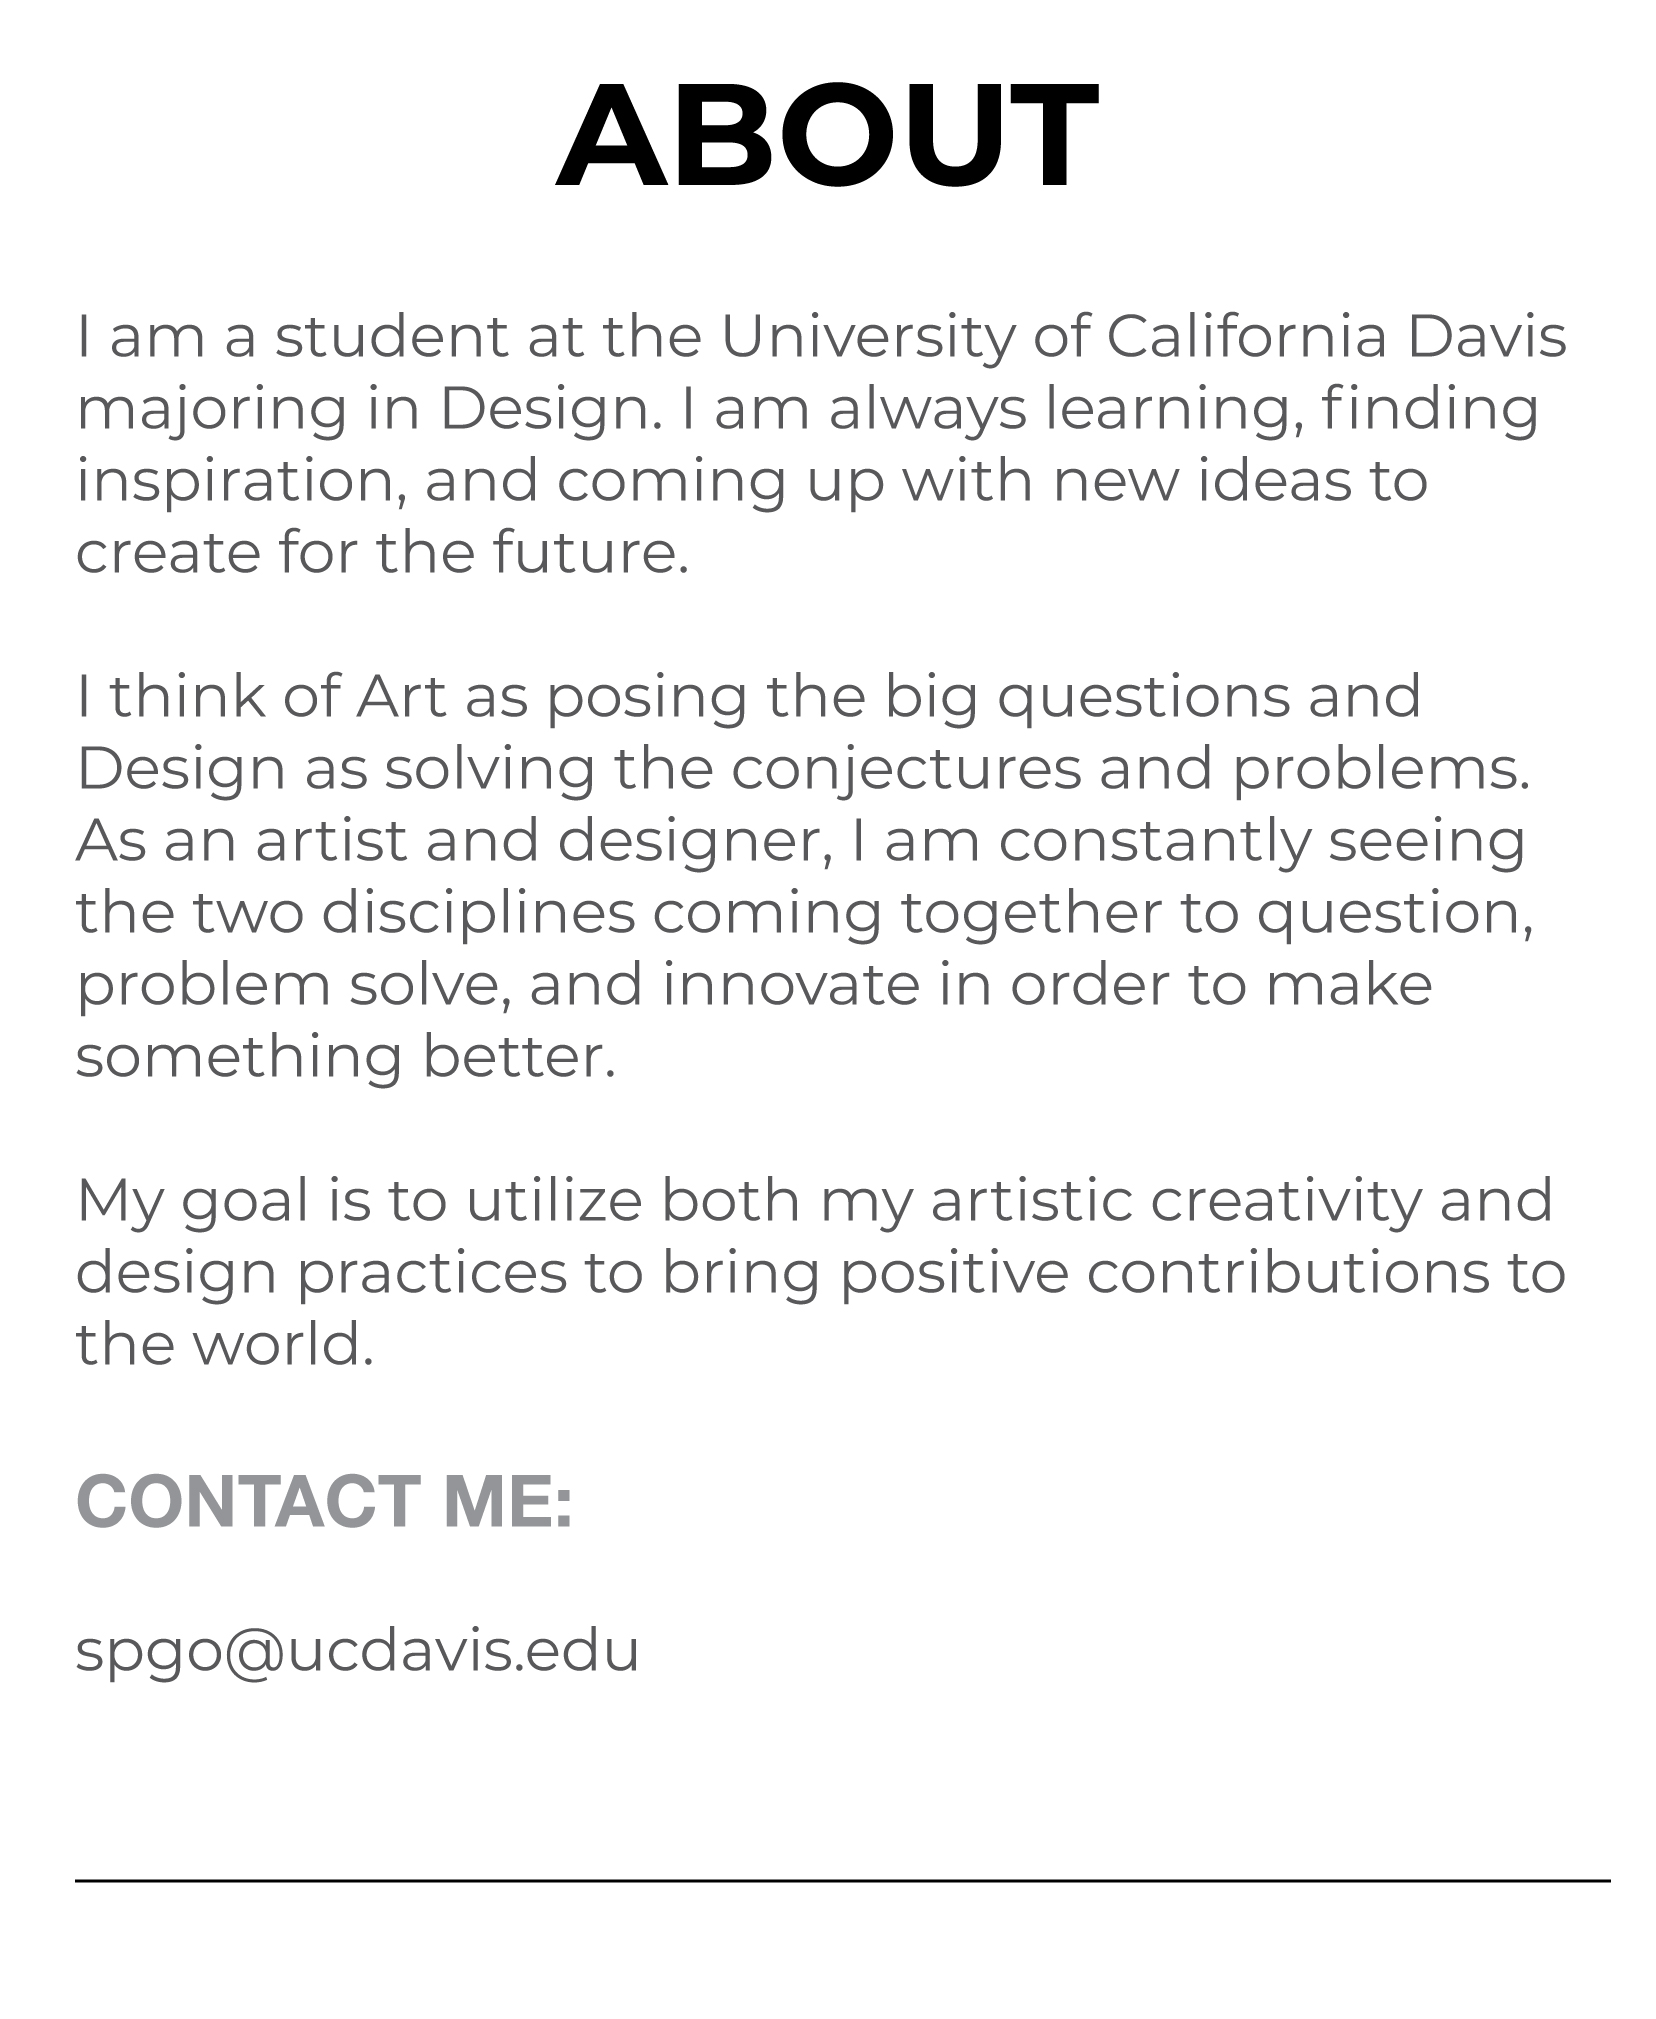
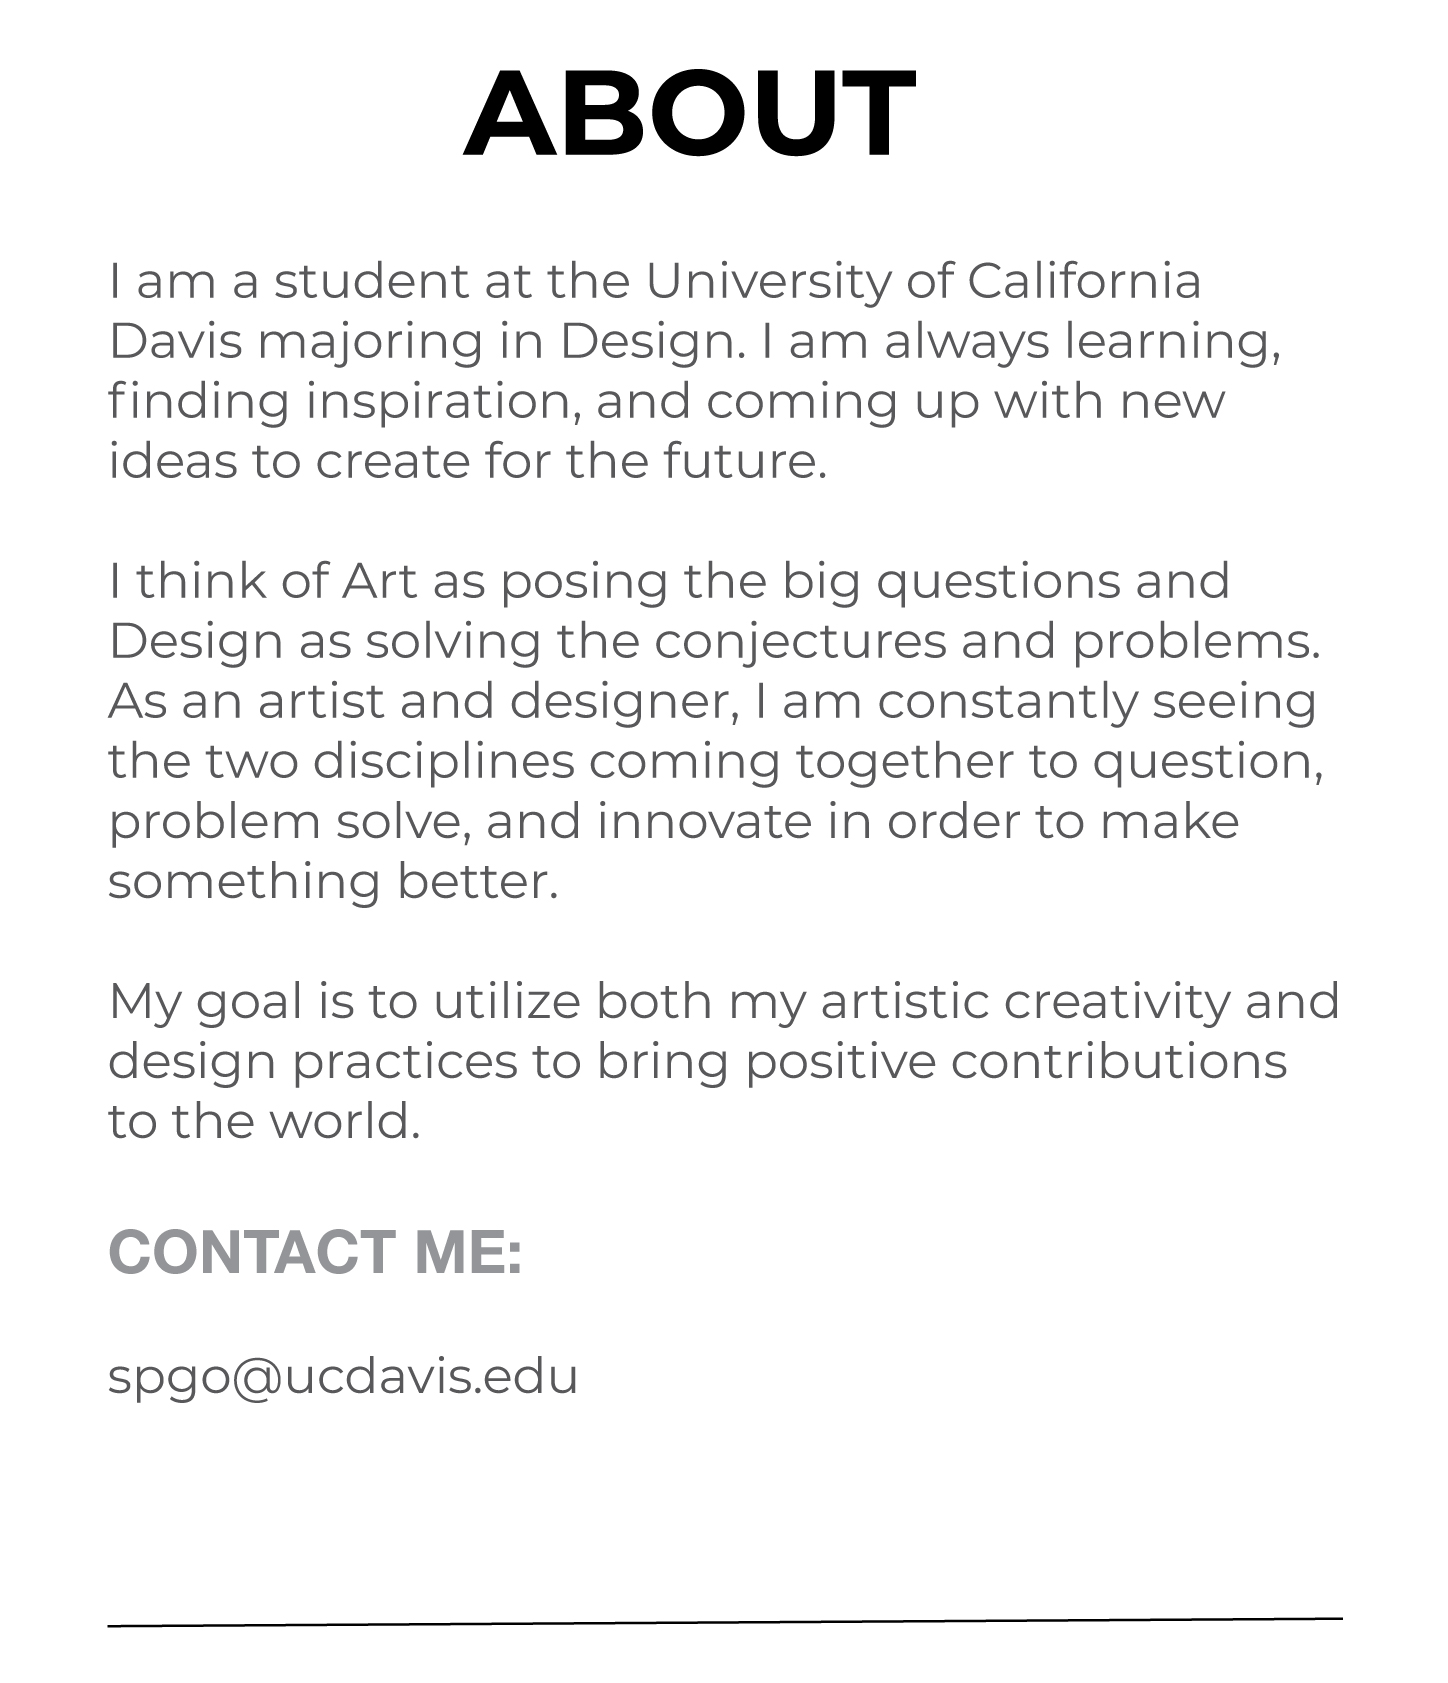
saved

diff --git a/styles3.css b/styles3.css
@@ -8,8 +8,13 @@ body {
 .logo img {
   width:87vw;
   position: relative;
-  right: 10%;
+  right: 22%;
 
+}
+.me img{
+  width: 80vw;
+  position: relative;
+  right: 55.5%;
 }
 
 .greenbox img{
@@ -18,7 +23,7 @@ display: block;
 margin-right: auto;
 margin-right: auto;
 position: relative;
-right: 40.5%;
+right: 70%;
 
 }
 
@@ -57,12 +62,24 @@ right: 40.5%;
   background-color: white ;
   padding: 5%;
   grid-row-gap:10%;
+  width: 88vw;
+  height: 70vw;
+  position: relative;
+  float: none;
+  right: 73%;}
+
+.design-container {
+  display: grid;
+  grid-column-gap: 10%;
+  grid-template-columns: auto auto ;
+  background-color: white ;
+  padding: 5%;
+  grid-row-gap:10%;
   width: 88.5vw;
   height: 70vw;
   position: relative;
   float: none;
-  right: 44%;
-
+  right: 63%;
 }
 
 .grid-item {
@@ -71,6 +88,7 @@ right: 40.5%;
   padding: 20px;
   font-size: 50px;
   text-align: center;
+  width:10vw
 
 
 }
@@ -89,16 +107,17 @@ right: 40.5%;
 
 .aboutbox{
 font-family: 'Montserrat', sans-serif;
-width: 160%;
+width: 245%;
 position: relative;
-right: 30%;
+right: 70%;
 
 }
 .awardbox{
 font-family: 'Montserrat', sans-serif;
-width: 160%;
+width: 245%;
 position: relative;
-right: 30%;
+right: 70%;
+
 
 }
 
@@ -106,18 +125,29 @@ right: 30%;
 @media only screen and (min-width: 900px)  {
 /*sets the header image to full screen width*/
 
+.me img{
+  width: 25vw;
+  height: 20vw;
+  position: absolute;
+  left: 20%;
+
+
+}
+
 .aboutbox{
 font-family: 'Montserrat', sans-serif;
 width: 30vw;
-position: relative;
-left: 30%;
+position:  relative;
+left: 53%;
+top: 30%;
 
 }
 .awardbox{
   font-family: 'Montserrat', sans-serif;
   width: 30vw;
   position: relative;
-  left: 30%;
+  left: 53%;
+bottom: -60px;
 
 }
 
@@ -133,8 +163,20 @@ left: 30%;
   position: relative;
   float: none;
   left: 10%;
+}
 
-
+.design-container {
+  display: grid;
+  grid-column-gap: 10%;
+  grid-template-columns: auto auto ;
+  background-color: white ;
+  padding: 5%;
+  grid-row-gap:10%;
+  width: 60vw;
+  height: 70vw;
+  position: relative;
+  float: none;
+  left:11%;
 }
 
 .grid-item {

diff --git a/designpage.html b/designpage.html
@@ -26,14 +26,12 @@
 
 <br>
 
-<div class="grid-container">
-  <div class="imagebox image1"><img src="./9brickcubes.jpg"></div>
-  <div class="imagebox image2"><img src="./birdsnest.jpg"></div>
-  <div class="imagebox image3"><img src="./candles.jpg"></div>
-  <div class="imagebox image4"><img src="./leaf.jpg"></div>
-  <div class="imagebox image5"><img src="./iam.jpg"></div>
-  <div class="imagebox image6"><img src="./family.jpg"></div>
-
+<div class="design-container">
+  <div class="imagebox image1"><img src="./haring.jpg"></div>
+  <div class="imagebox image2"><img src="./helvetica.jpg"></div>
+  <div class="imagebox image3"><img src="./vintage.jpg"></div>
+  <div class="imagebox image4"><img src="./typeportrait.jpg"></div>
+  
 </div>
 
 </body>

diff --git a/portfolioabout.html b/portfolioabout.html
@@ -7,19 +7,27 @@
   <link href="https://fonts.googleapis.com/css?family=Libre+Baskerville:400,400i,700" rel="stylesheet">
 </head>
 <body>
-
-
   <div class="logo">
     <img src="logo.jpg" alt="logo">
-  </div>
+  </div
+
 <br>
 <div class="topnav">
   <a href="./portfolioweb.html">ART</a>
   <a href="./designpage.html">DESIGN</a>
   <a href="./portfolioabout.html">ABOUT </a>
 </div>
+
 <br>
 <br>
+<br>
+<br>
+<br>
+<br>
+<div class="me">
+  <img src="me.jpg" alt="logo">
+</div>
+
 
 <div class="aboutbox">
     <img src="aboutme.jpg" alt="aboutme">

diff --git a/portfolioweb.html b/portfolioweb.html
@@ -36,10 +36,9 @@
   <div class="imagebox image1"><img src="./9brickcubes.jpg"></div>
   <div class="imagebox image2"><img src="./birdsnest.jpg"></div>
   <div class="imagebox image3"><img src="./candles.jpg"></div>
-  <div class="imagebox image4"><img src="./leaf.jpg"></div>
   <div class="imagebox image5"><img src="./iam.jpg"></div>
+  <div class="imagebox image4"><img src="./leaf.jpg"></div>
   <div class="imagebox image6"><img src="./family.jpg"></div>
-
 </div>
 
 </body>
